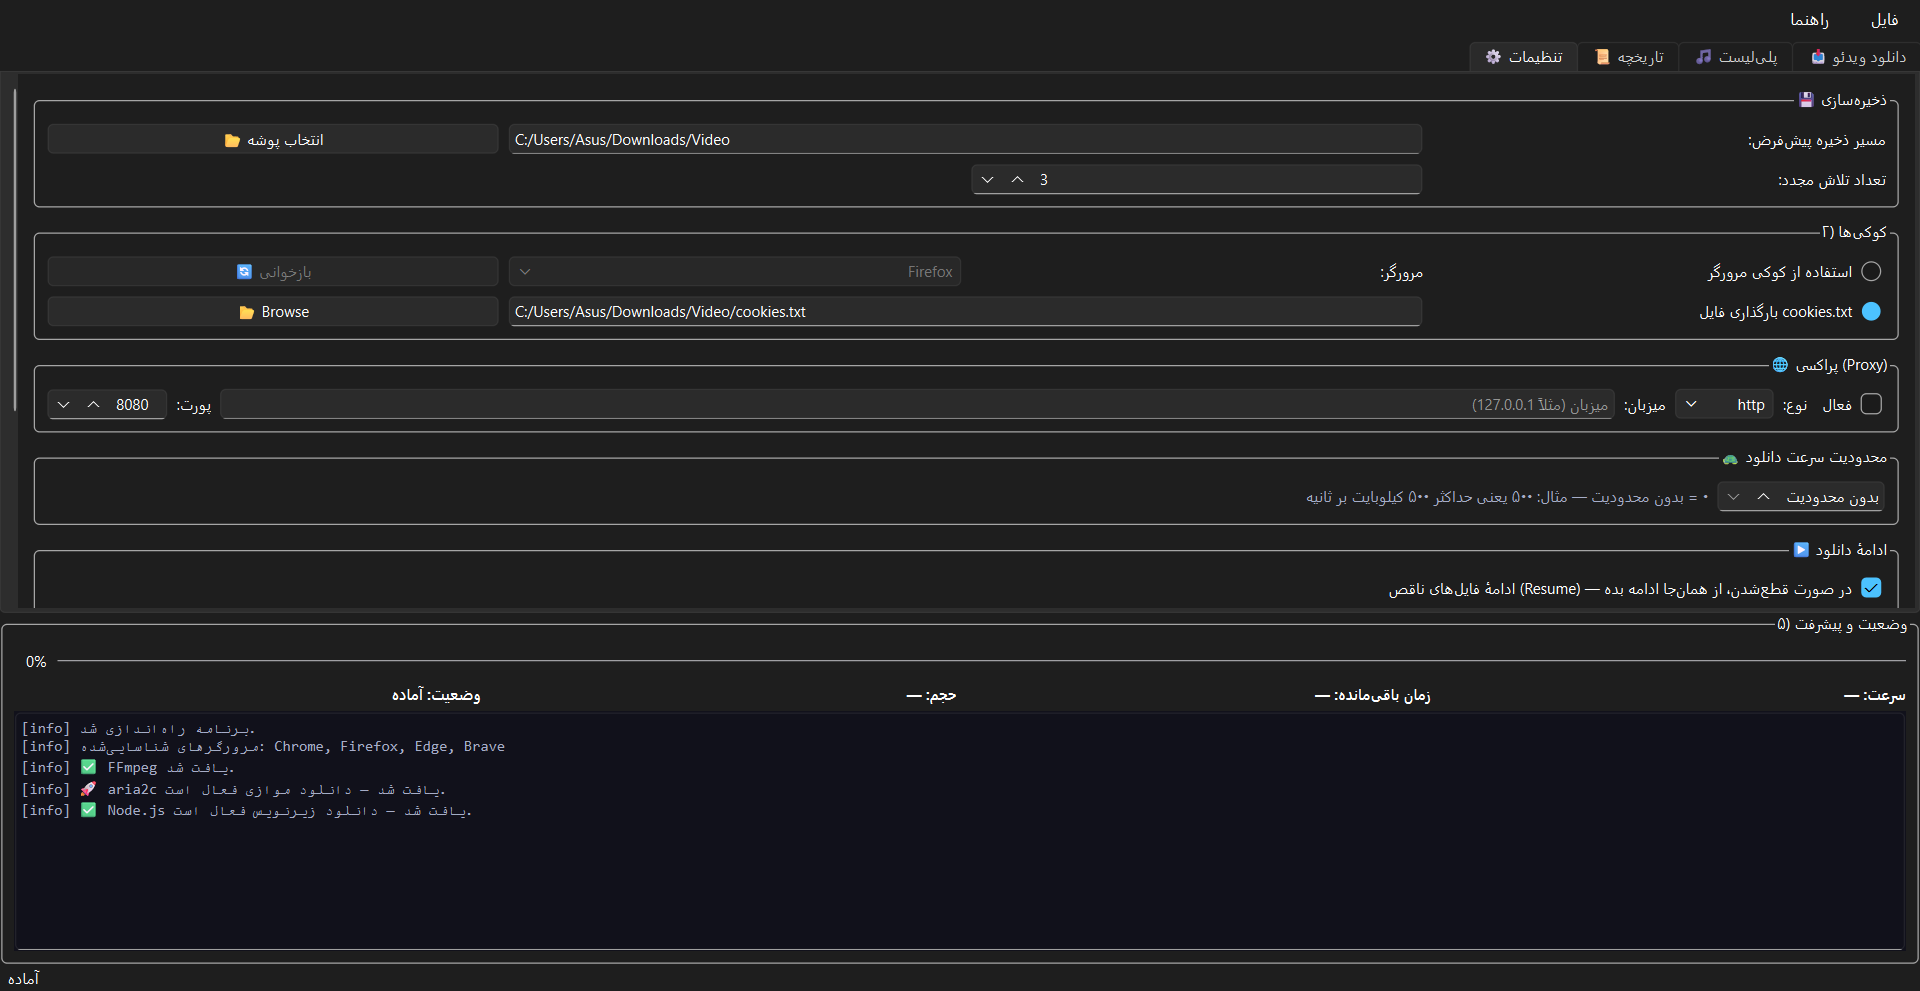
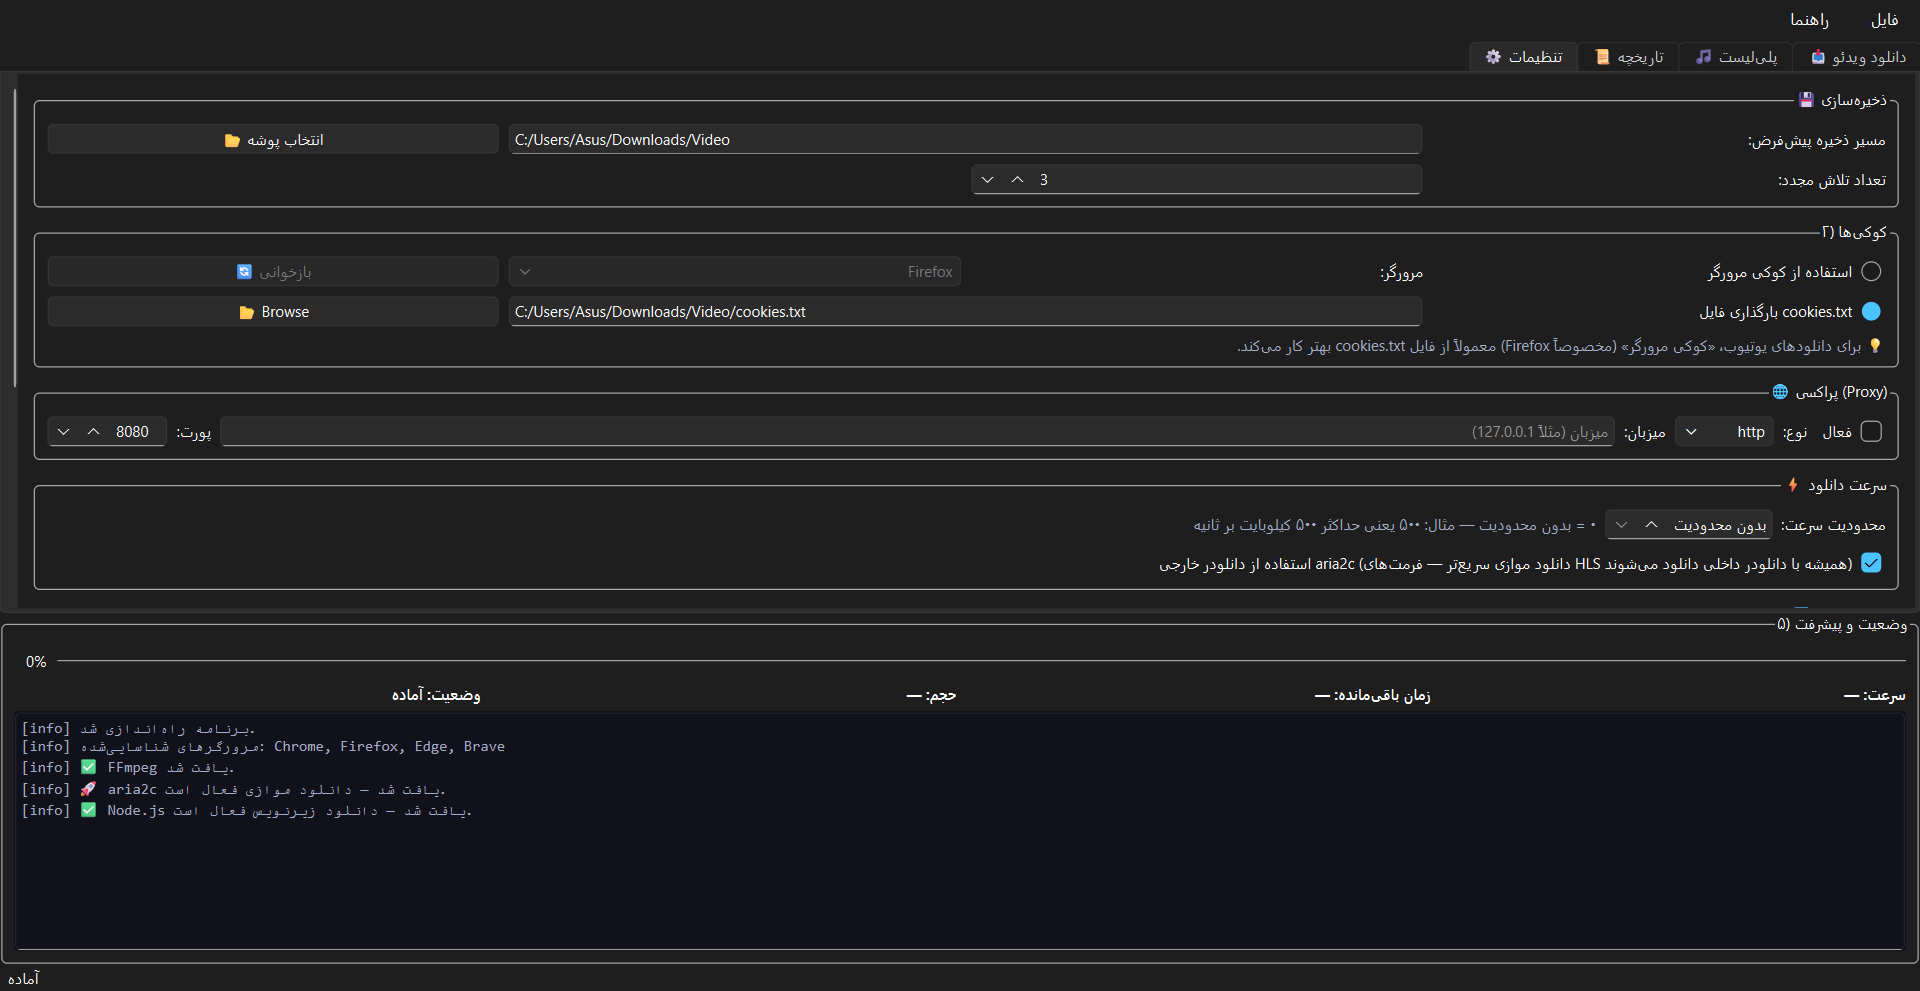
fix: aria2c TLS failure (HLS native + auto-fallback + setting), accurate playlist completion messages

Changed region(s): [[0.5938, 0.333, 1.0, 0.6054], [0.0312, 0.3935, 0.875, 0.4541]]

diff --git a/downloader.py b/downloader.py
@@ -33,7 +33,10 @@ def _find_ffmpeg_location() -> Optional[str]:
 # ---------- ترجمه پیامهای خطای yt-dlp به فارسی ----------
 _FRIENDLY_ERRORS = (
     (("sign in to confirm", "not a bot", "confirm you're not a bot"),
-     "یوتیوب درخواست شما را «ربات» تشخیص داد. یکبار گزینهٔ «کوکی مرورگر» (تازه) را فعال کنید یا از پراکسی/VPN دیگری استفاده کنید."),
+     "یوتیوب درخواست شما را «ربات» تشخیص داد. راهکارها:\n"
+     "۱) در تب تنظیمات، «استفاده از کوکی مرورگر» (مثلاً Firefox) را فعال کنید — معمولاً بهتر از فایل cookies.txt کار میکند.\n"
+     "۲) اگر VPN/پراکسی دارید، سرور را عوض کنید.\n"
+     "۳) کمی صبر کنید و دوباره تلاش کنید."),
     (("private video", "this video is private"),
      "این ویدئو خصوصی است و قابل دانلود نیست."),
     (("video unavailable", "removed by the uploader", "deleted"),
@@ -175,6 +178,7 @@ class YouTubeDownloader:
         proxy: Optional[str] = None,
         rate_limit: int = 0,
         resume: bool = True,
+        use_aria2c: bool = True,
     ) -> dict:
         """ساخت پارامترهای پایه برای yt-dlp — با تنظیمات سرعت بالا"""
 
@@ -221,16 +225,23 @@ class YouTubeDownloader:
         # ▶ ادامهٔ دانلود ناقص (Resume) — پیشفرض yt-dlp روشن است
         opts["continuedl"] = bool(resume)
 
-        # ⚡ اگر aria2c نصب بود، از آن به عنوان دانلودر خارجی استفاده کن
-        # این سریعترین گزینه است (اختیاری)
-        if self._has_aria2c():
-            opts["external_downloader"] = "aria2c"
-            opts["external_downloader_args"] = [
-                "-x", str(self.CONCURRENT_FRAGMENTS),  # تعداد کانکشن
-                "-s", str(self.CONCURRENT_FRAGMENTS),  # تعداد split
-                "-k", "1M",                              # حداقل سایز chunk
-                "--min-split-size=1M",
-            ]
+        # ⚡ دانلودر خارجی aria2c (اختیاری)
+        # نکته مهم: برای فرمتهای HLS (m3u8) از دانلودر داخلی استفاده میکنیم،
+        # چون aria2c روی HLS یوتیوب شکست میخورد («aria2c exited with code 1»)
+        if use_aria2c and self._has_aria2c():
+            opts["external_downloader"] = {
+                "default": "aria2c",
+                "m3u8": "native",
+                "m3u8_native": "native",
+            }
+            opts["external_downloader_args"] = {
+                "aria2c": [
+                    "-x", str(self.CONCURRENT_FRAGMENTS),  # تعداد کانکشن
+                    "-s", str(self.CONCURRENT_FRAGMENTS),  # تعداد split
+                    "-k", "1M",                             # حداقل سایز chunk
+                    "--min-split-size=1M",
+                ]
+            }
 
         if verbose:
             opts["verbose"] = True
@@ -388,12 +399,13 @@ class YouTubeDownloader:
         subtitle_auto: bool = False,
         rate_limit: int = 0,
         resume: bool = True,
+        use_aria2c: bool = True,
     ):
         """دانلود ویدئو/صدا با فرمت انتخابشده — با حداکثر سرعت"""
         self._reset()
         opts = self._build_base_opts(
             cookie_browser, cookie_file, retries, quiet=False, proxy=proxy,
-            rate_limit=rate_limit, resume=resume,
+            rate_limit=rate_limit, resume=resume, use_aria2c=use_aria2c,
         )
 
         outtmpl = str(Path(output_dir) / "%(title)s [%(id)s].%(ext)s")
@@ -440,15 +452,31 @@ class YouTubeDownloader:
             self._run_download(opts, url)
         except DownloadCancelled:
             raise
-        except Exception:
-            # اگر زیرنویس فعال بود، خطا ممکن است از زیرنویس باشد؛
-            # بدون زیرنویس دوباره تلاش کن تا ویدئو همچنان دانلود شود
+        except Exception as e:
+            err = str(e)
+            retry = False
+
+            # ۱) اگر دانلودر خارجی aria2c شکست خورد، با دانلودر داخلی yt-dlp دوباره تلاش کن
+            if "aria2c" in err.lower() and opts.get("external_downloader"):
+                if log_callback:
+                    log_callback(
+                        "[warning] ⚠ دانلودر خارجی aria2c شکست خورد — "
+                        "تلاش مجدد با دانلودر داخلی yt-dlp..."
+                    )
+                opts.pop("external_downloader", None)
+                opts.pop("external_downloader_args", None)
+                retry = True
+
+            # ۲) اگر زیرنویس فعال بود، بدون زیرنویس هم تلاش کن تا ویدئو همچنان دانلود شود
             if subtitle_langs or subtitle_auto:
                 if log_callback:
-                    log_callback("[warning] دانلود زیرنویس ناموفق بود — ویدئو بدون زیرنویس دانلود میشود.")
-                self._reset()
+                    log_callback("[warning] تلاش مجدد بدون زیرنویس...")
                 for k in ("writesubtitles", "writeautomaticsub", "subtitleslangs", "subtitlesformat"):
                     opts.pop(k, None)
+                retry = True
+
+            if retry:
+                self._reset()
                 self._run_download(opts, url)
             else:
                 raise

diff --git a/gui.py b/gui.py
@@ -180,6 +180,7 @@ class MainWindow(MainWindowUIBuilder, QMainWindow):
         self.subtitle_auto_check.setChecked(bool(self.settings.get("subtitle_auto", False)))
 
         self.rate_limit_spin.setValue(int(self.settings.get("rate_limit", 0)))
+        self.aria2c_check.setChecked(bool(self.settings.get("use_aria2c", False)))
         self.resume_check.setChecked(bool(self.settings.get("resume_enabled", True)))
         self.notify_check.setChecked(bool(self.settings.get("notify_enabled", True)))
 
@@ -497,6 +498,13 @@ class MainWindow(MainWindowUIBuilder, QMainWindow):
         except Exception:
             return 0
 
+    def _current_use_aria2c(self) -> bool:
+        """آیا از دانلودر خارجی aria2c استفاده شود؟"""
+        try:
+            return bool(self.aria2c_check.isChecked())
+        except Exception:
+            return True
+
     def _spawn_thread(self, target, args=()):
         """شروع thread و ردیابی آن برای بستن ایمن"""
         self._workers = [t for t in self._workers if t.is_alive()]
@@ -757,12 +765,12 @@ class MainWindow(MainWindowUIBuilder, QMainWindow):
             self._playlist_download_worker,
             (selected, output_dir, fmt, browser, cookie_file, retries, audio_only, audio_fmt,
              proxy, subtitle_langs, subtitle_auto, self._current_rate_limit(),
-             self.resume_check.isChecked()),
+             self.resume_check.isChecked(), self._current_use_aria2c()),
         )
 
     def _playlist_download_worker(self, videos, output_dir, fmt, browser, cookie_file,
                                   retries, audio_only, audio_fmt, proxy, subtitle_langs, subtitle_auto,
-                                  rate_limit=0, resume=True):
+                                  rate_limit=0, resume=True, use_aria2c=True):
         total = len(videos)
         success = 0
         failed = 0
@@ -788,6 +796,7 @@ class MainWindow(MainWindowUIBuilder, QMainWindow):
                 subtitle_auto=subtitle_auto,
                 rate_limit=rate_limit,
                 resume=resume,
+                use_aria2c=use_aria2c,
             )
 
         for i, (row, v) in enumerate(videos, 1):
@@ -963,6 +972,7 @@ class MainWindow(MainWindowUIBuilder, QMainWindow):
             "subtitle_langs": subtitle_langs, "subtitle_auto": subtitle_auto,
             "rate_limit": self._current_rate_limit(),
             "resume": self.resume_check.isChecked(),
+            "use_aria2c": self._current_use_aria2c(),
         }
 
     def _start_task(self, task: dict):
@@ -1056,6 +1066,7 @@ class MainWindow(MainWindowUIBuilder, QMainWindow):
             "subtitle_auto": False,
             "rate_limit": self._current_rate_limit(),
             "resume": self.resume_check.isChecked(),
+            "use_aria2c": self._current_use_aria2c(),
         }
 
     def _process_queue(self):
@@ -1106,6 +1117,7 @@ class MainWindow(MainWindowUIBuilder, QMainWindow):
                 subtitle_auto=task["subtitle_auto"],
                 rate_limit=task.get("rate_limit", 0),
                 resume=task.get("resume", True),
+                use_aria2c=task.get("use_aria2c", True),
             )
             self.signals.finished.emit()
         except DownloadCancelled:
@@ -1166,17 +1178,26 @@ class MainWindow(MainWindowUIBuilder, QMainWindow):
         self.btn_cancel.setEnabled(False)
         self.btn_fetch.setEnabled(True)
         self.btn_pl_download.setEnabled(bool(self.playlist_items))
-        self._set_status("✅ دانلود با موفقیت انجام شد.")
-        self._append_log("[info] دانلود با موفقیت به پایان رسید.")
         self._record_history()
+
+        pr = self._playlist_result
+        if pr is not None and pr[1] > 0:
+            self._set_status(f"⚠ پایان دانلود — {pr[1]} مورد ناموفق")
+            self._append_log(
+                f"[warning] دانلود پایان یافت — ✅ {pr[0]} موفق، ❌ {pr[1]} ناموفق."
+            )
+        else:
+            self._set_status("✅ دانلود با موفقیت انجام شد.")
+            self._append_log("[info] دانلود با موفقیت به پایان رسید.")
+
         if self.queue:
             # موردهای بیشتری در صف است — بدون دیالوگ ادامه بده
             self._process_queue()
         else:
             self._set_taskbar_value(100)
             self._hide_taskbar_progress()
-            if self._playlist_result is not None:
-                success, failed = self._playlist_result
+            if pr is not None:
+                success, failed = pr
                 self._playlist_result = None
                 if failed == 0:
                     self._notify("دانلود کامل شد", f"{success} ویدئو با موفقیت دانلود شد")
@@ -1275,6 +1296,7 @@ class MainWindow(MainWindowUIBuilder, QMainWindow):
         self.settings.set("subtitle_langs", self.subtitle_langs.text().strip())
         self.settings.set("subtitle_auto", self.subtitle_auto_check.isChecked())
         self.settings.set("rate_limit", int(self.rate_limit_spin.value()))
+        self.settings.set("use_aria2c", self.aria2c_check.isChecked())
         self.settings.set("resume_enabled", self.resume_check.isChecked())
         self.settings.set("notify_enabled", self.notify_check.isChecked())
 

diff --git a/ui_builder.py b/ui_builder.py
@@ -169,17 +169,27 @@ class MainWindowUIBuilder:
 
     # ================= گروه محدودیت سرعت =================
     def _build_speed_group(self):
-        group = QGroupBox("🐢 محدودیت سرعت دانلود")
-        layout = QHBoxLayout(group)
+        group = QGroupBox("⚡ سرعت دانلود")
+        layout = QVBoxLayout(group)
+
+        row = QHBoxLayout()
+        row.addWidget(QLabel("محدودیت سرعت:"))
         self.rate_limit_spin = QSpinBox()
         self.rate_limit_spin.setRange(0, 200000)
         self.rate_limit_spin.setSingleStep(50)
         self.rate_limit_spin.setSuffix(" KB/s")
         self.rate_limit_spin.setSpecialValueText("بدون محدودیت")
-        layout.addWidget(self.rate_limit_spin)
+        row.addWidget(self.rate_limit_spin)
         hint = QLabel("۰ = بدون محدودیت — مثال: ۵۰۰ یعنی حداکثر ۵۰۰ کیلوبایت بر ثانیه")
         hint.setStyleSheet("color: #a6adc8;")
-        layout.addWidget(hint, 1)
+        row.addWidget(hint, 1)
+        layout.addLayout(row)
+
+        self.aria2c_check = QCheckBox(
+            "استفاده از دانلودر خارجی aria2c (دانلود موازی سریعتر — "
+            "فرمتهای HLS همیشه با دانلودر داخلی دانلود میشوند)"
+        )
+        layout.addWidget(self.aria2c_check)
         return group
 
     # ================= گروه اعلانها =================
@@ -272,6 +282,13 @@ class MainWindowUIBuilder:
         self.btn_browse_cookie = QPushButton("📂 Browse")
         self.btn_browse_cookie.clicked.connect(self._browse_cookie_file)
         layout.addWidget(self.btn_browse_cookie, 1, 3)
+
+        hint = QLabel(
+            "💡 برای دانلودهای یوتیوب، «کوکی مرورگر» (مخصوصاً Firefox) معمولاً از فایل cookies.txt بهتر کار میکند."
+        )
+        hint.setStyleSheet("color: #a6adc8;")
+        hint.setWordWrap(True)
+        layout.addWidget(hint, 2, 0, 1, 4)
         return group
 
     # ================= گروه پراکسی =================

diff --git a/tests/test_downloader.py b/tests/test_downloader.py
@@ -171,5 +171,22 @@ class TestVersionCompare(unittest.TestCase):
         self.assertFalse(is_newer_version("2026.8.19", ""))
 
 
+class TestAria2cOpts(unittest.TestCase):
+    def test_aria2c_excludes_hls(self):
+        dl = YouTubeDownloader()
+        opts = dl._build_base_opts(use_aria2c=True)
+        ed = opts.get("external_downloader")
+        if ed is not None:  # فقط اگر aria2c نصب باشد
+            self.assertIsInstance(ed, dict)
+            self.assertEqual(ed.get("default"), "aria2c")
+            self.assertEqual(ed.get("m3u8"), "native")  # HLS باید با دانلودر داخلی باشد
+
+    def test_aria2c_disabled(self):
+        dl = YouTubeDownloader()
+        opts = dl._build_base_opts(use_aria2c=False)
+        self.assertNotIn("external_downloader", opts)
+        self.assertNotIn("external_downloader_args", opts)
+
+
 if __name__ == "__main__":
     unittest.main()

diff --git a/settings.py b/settings.py
@@ -25,6 +25,7 @@ class SettingsManager:
             "subtitle_langs": "fa,en",
             "subtitle_auto": False,
             "rate_limit": 0,          # محدودیت سرعت به KB/s (۰ = بدون محدودیت)
+            "use_aria2c": False,      # دانلودر خارجی aria2c (در برخی سیستمها خطای SSL میدهد)
             "resume_enabled": True,   # ادامهٔ دانلود ناقص از همانجا
             "notify_enabled": True,   # اعلان سیستم هنگام پایان/خطای دانلود
             "history": [],

diff --git a/README.md b/README.md
@@ -393,7 +393,9 @@ Persian_Youtube_Downloader/
 | مشکل | Problem | راهحل |
 |------|---------|--------|
 | «ffmpeg not found» | ffmpeg missing | FFmpeg را نصب کنید (بخش پیشنیازها) |
-| دانلود کند | slow download | `aria2c` را نصب کنید تا دانلود موازی فعال شود |
+| «aria2c exited with code 1» | aria2c TLS failure | در تب تنظیمات، تیک «استفاده از aria2c» را بردارید — برنامه خودکار هم به دانلودر داخلی برمیگردد |
+| «Sign in to confirm you're not a bot» | YouTube bot check | در تب تنظیمات «استفاده از کوکی مرورگر» (مثل Firefox) را فعال کنید؛ اگر VPN دارید سرور را عوض کنید |
+| دانلود کند | slow download | در تب تنظیمات، «استفاده از aria2c» را فعال کنید (اگر روی سیستم شما بدون خطا کار میکند) |
 | خطای کوکی | cookie error | مرورگر را ببندید یا از فایل `cookies.txt` تازه استفاده کنید |
 | فرمت نمایش داده نمیشود | formats not shown | از کوکی معتبر استفاده کنید (YouTube محدودیت اعمال میکند) |
 | «Did not get any data blocks» در زیرنویس | subtitle PO token error | PO Token Provider را راهاندازی کنید (بخش راهاندازی PO Token) |
